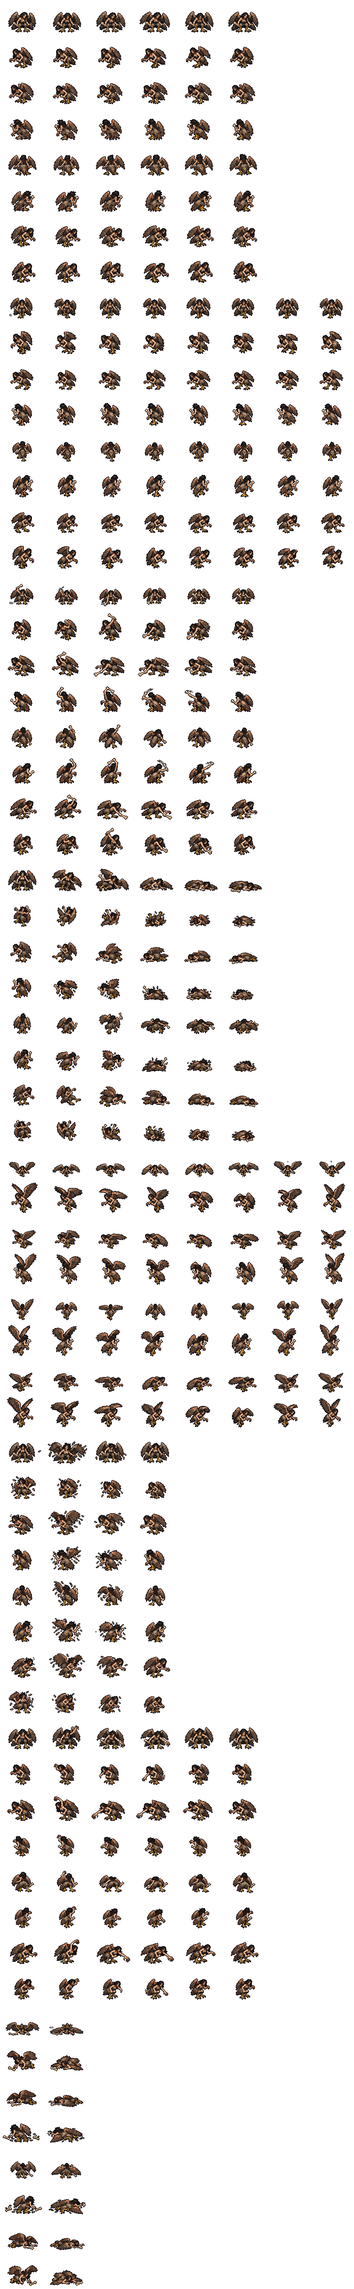
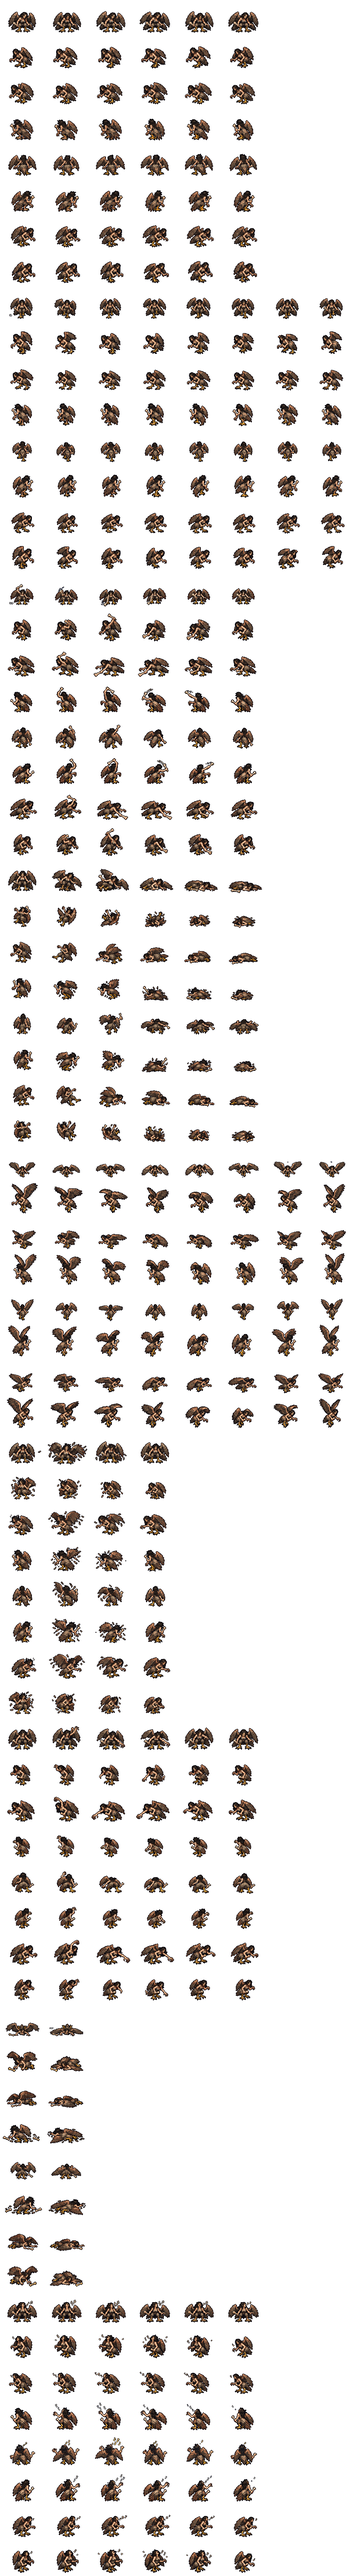
The rust monster's Antennae and the harpy's Song cut onto their sheets: the rows the monster rules play (js/monsterrules.js rowOr)
tools/rustmonster-sheet.py: antennae <- Antennae 6 -- ART-16's SE and NE rows from the boxes kept in UNCUT since 10-22, ART-57's S, E and
N pages (P3), the rust flakes of frames 3 and 4 with their frames; two labels boxed whole. rustmonster_p1's other rows byte for byte.
tools/harpy-sheet.py: song <- Song 6 -- ART-14's SE and NE Song rows, ART-56's S, E and N Song pages (P6), the notes with their frames; N's
first line ends at its numbers (the second line's notes below them), SE's "Song" boxed whole. The Song pages kept out of the Fly pages'
median scale, so the fly stays as f04ec01 cut it: harpy_p1's other rows byte for byte.
tools/pixelate.py ANIM_ORDER: antennae, song, enslave last. js/ui.js plays touch, antennae, song and enslave once and back to idle.
?show=rustmonster and ?show=harpy play every row twice. On Griz's "Yes, cut them" (10-28, to the lanes desk, on the Antennae, Song and
Enslave rows the monster rules seat's 012b741 plays where a sheet has them).

diff --git a/deep16/js/ui.js b/deep16/js/ui.js
@@ -1535,7 +1535,7 @@
           else if (has('hurt')) { anim = 'hurt'; o.once = true; if (pf >= 0 && u.proneLook) t += Math.ceil(pf * 60 / (D.spr.anim(u.sheet, 'hurt').fps || 8)); }
           else if (u.dead) { anim = 'idle'; o.alpha = Math.max(0, 1 - (B.t - u.deadT) / 50); o.tint = R('violet', 4); o.tintAlpha = 0.5; }
           else { anim = 'idle'; o.lie = true; }
-        } else if (anim === 'attack' || anim === 'cast' || anim === 'flinch' || anim === 'clack' || anim === 'burrow' || anim === 'reveal' || anim === 'reel' || /^(claw|bite|tendril|tentacles|beak|greatclub|rock|taunt|denimdamage|gaze|cannonball|socialsharing|socialflame|socialdistancing|honk|hottake|goingviral|spot|spotlight|guard|lobstahhug|grouphug|lifeline|scimitar|shortbow|nimble|hide|morningstar|javelin|ambush|catch|engulf|digest|slam|battleaxe|crush|darkness|backhand|pounce|drain|mirrorstrike|kneel|overfill|ascend|longbow|slash|volley|whirlwind|parry|backstep|pseudopod|bites|spittle|spikedboneclub|whelm|castup|defend|useitem|victory|attack|interact|secondwind|actionsurge|oilfire|breath|tailspike|tail)\d?$/.test(anim)) { o.once = true; if (!has(anim) || t > D.spr.duration(u.sheet, anim) + 6) { anim = 'idle'; o.once = false; } } // (back to idle, and idle loops: the flinch's once held its last frame on anyone struck who then did not act -- the landlord, 09-30g) (breath, tailspike, tail: the winter wolf's Cold Breath, the manticore's volley, the aboleth's tail, 10-22)
+        } else if (anim === 'attack' || anim === 'cast' || anim === 'flinch' || anim === 'clack' || anim === 'burrow' || anim === 'reveal' || anim === 'reel' || /^(claw|bite|tendril|tentacles|beak|greatclub|rock|taunt|denimdamage|gaze|cannonball|socialsharing|socialflame|socialdistancing|honk|hottake|goingviral|spot|spotlight|guard|lobstahhug|grouphug|lifeline|scimitar|shortbow|nimble|hide|morningstar|javelin|ambush|catch|engulf|digest|slam|battleaxe|crush|darkness|backhand|pounce|drain|mirrorstrike|kneel|overfill|ascend|longbow|slash|volley|whirlwind|parry|backstep|pseudopod|bites|spittle|spikedboneclub|whelm|castup|defend|useitem|victory|attack|interact|secondwind|actionsurge|oilfire|breath|tailspike|tail|touch|antennae|song|enslave)\d?$/.test(anim)) { o.once = true; if (!has(anim) || t > D.spr.duration(u.sheet, anim) + 6) { anim = 'idle'; o.once = false; } } // (back to idle, and idle loops: the flinch's once held its last frame on anyone struck who then did not act -- the landlord, 09-30g) (breath, tailspike, tail: the winter wolf's Cold Breath, the manticore's volley, the aboleth's tail, 10-22)
         // hiding (10-07, the goblin's Hide: its sheet's `hide` row, a crouch behind its shield): the row plays at the Hide (battle.js hide sets it, the once-rows above), and while it stays
         // hidden and would stand idle it keeps the row's last frame -- the crouch held; one that walks or strikes shows that, and one found stands up
         if (!down && u.conds.hidden && anim === 'idle' && has('hide')) { anim = 'hide'; o.frame = D.spr.anim(u.sheet, 'hide').frames - 1; o.once = false; }

diff --git a/deep16/data/sprites.js b/deep16/data/sprites.js
@@ -5891,7 +5891,7 @@
 }
 },
 "harpy_p1": {
-"image": "art/harpy_p1.png?v=1a36bfac64",
+"image": "art/harpy_p1.png?v=95ca97eafa",
 "fw": 104,
 "fh": 84,
 "ax": 52,
@@ -5969,6 +5969,15 @@
 "ay": 76,
 "frames": 2,
 "fps": 6
+},
+"song": {
+"y": 5376,
+"fw": 104,
+"fh": 84,
+"ax": 52,
+"ay": 76,
+"frames": 6,
+"fps": 8
 }
 },
 "source": "drawn by the art desk (ART-14 SE and NE with its two Claws corrections, 10-10; ART-56 S, E and N, 10-20), cut by tools/harpy-sheet.py through tools/artdesk.py (10-28)"
@@ -15114,7 +15123,7 @@ true
 "source": "generated by the art desk (Griz's ChatGPT project, 2026-10-14: ART-59, FINAL SHEETS), cut by tools/roadprops-sheet.py"
 },
 "rustmonster_p1": {
-"image": "art/rustmonster_p1.png?v=899381d671",
+"image": "art/rustmonster_p1.png?v=5a2b2dc6f4",
 "fw": 108,
 "fh": 56,
 "ax": 54,
@@ -15174,6 +15183,15 @@ true
 "ay": 50,
 "frames": 2,
 "fps": 6
+},
+"antennae": {
+"y": 2688,
+"fw": 108,
+"fh": 56,
+"ax": 54,
+"ay": 50,
+"frames": 6,
+"fps": 10
 }
 },
 "source": "drawn by the art desk (ART-16 SE and NE, 10-10, SE page 1 the revised \"Rustmonster front-facing animation sheet\"; ART-57 S, E and N, 10-20), cut by tools/rustmonster-sheet.py through tools/artdesk.py (10-22)"

diff --git a/deep16/index.html b/deep16/index.html
@@ -77,7 +77,7 @@
 <script src="js/art.js?v=e1ce4cf012"></script>
 <script src="data/cavern.js?v=647c1a184a"></script>
 <script src="data/maps.js?v=971b4fe9e6"></script>
-<script src="data/sprites.js?v=4fa6b16116"></script>
+<script src="data/sprites.js?v=6b4332d61d"></script>
 <script src="js/sprites.js?v=132505c283"></script>
 <script src="js/save.js?v=1191d6f29a"></script>
 <script src="data/spells.js?v=b819b6e987"></script>
@@ -112,7 +112,7 @@
 <script src="js/keeper.js?v=b14a3c0a11"></script>
 <script src="js/keeperplay.js?v=ee16f94a09"></script>
 <script src="js/keeperlog.js?v=e082ee5691"></script>
-<script src="js/ui.js?v=2c7695605b"></script>
+<script src="js/ui.js?v=182fe6c701"></script>
 <script src="js/view.js?v=2116b81b68"></script>
 <script src="js/ladder.js?v=86b87c0ae1"></script>
 <script src="js/record.js?v=060699a5ba"></script>

diff --git a/tools/pixelate.py b/tools/pixelate.py
@@ -22,7 +22,7 @@ if not os.path.isdir(SRC):                                     # (_src is not in
     SRC = os.path.join(os.path.dirname(os.path.abspath(os.path.join(ROOT, _common))), 'deep16', '_src')
 ART = os.path.join(D16, 'art')
 FPS = {'longsword': 12, 'longsword2': 12, 'longbow': 10, 'martial': 12, 'morningstar': 12, 'morningstar2': 12, 'javelin': 10, 'ambush': 12, 'scimitar': 12, 'shortbow': 10, 'nimble': 12, 'hide': 8, 'gaze': 10, 'taunt': 10, 'denimdamage': 12, 'cannonball': 14, 'spot': 8, 'spotlight': 12, 'guard': 8, 'lobstahhug': 12, 'grouphug': 10, 'lifeline': 10, 'socialsharing': 8, 'socialflame': 10, 'socialdistancing': 10, 'honk': 10, 'hottake': 12, 'goingviral': 10,'claw': 12, 'claw2': 12, 'claw3': 12, 'bite': 10, 'burrow': 8, 'idle': 6, 'walk': 10, 'attack': 12, 'hurt': 10, 'die': 8, 'sit': 2, 'cast': 10, 'fly': 9, 'roost': 2, 'reveal': 6, 'moan': 8, 'flinch': 12, 'tendril': 12, 'tendril2': 12, 'tendril3': 12, 'tendril4': 12, 'reel': 10, 'still': 2, 'tentacles': 12, 'beak': 10, 'slither': 10, 'prone': 8, 'greatclub': 10, 'greatclub2': 10, 'rock': 10, 'climb': 8, 'catch': 10}
-ANIM_ORDER = ['idle', 'walk', 'attack', 'hurt', 'die', 'sit', 'cast', 'fly', 'roost', 'reveal', 'moan', 'flinch', 'rofl', 'braid', 'run', 'clack', 'burrow', 'claw', 'claw2', 'claw3', 'bite', 'tendril', 'tendril2', 'tendril3', 'tendril4', 'reel', 'still', 'tentacles', 'beak', 'slither', 'prone', 'greatclub', 'greatclub2', 'rock', 'climb', 'catch', 'gaze', 'taunt', 'denimdamage', 'cannonball', 'socialsharing', 'socialflame', 'socialdistancing', 'honk', 'hottake', 'goingviral', 'spot', 'spotlight', 'guard', 'lobstahhug', 'grouphug', 'lifeline', 'scimitar', 'shortbow', 'nimble', 'hide', 'morningstar', 'javelin', 'ambush', 'longsword', 'longsword2', 'longbow', 'martial', 'morningstar2', 'breath', 'tailspike', 'tail', 'touch']  # (touch: the lamia's Intoxicating Touch, a row named for the blow, 10-27)  # (tail: the aboleth's Tail, a row named for the blow, 10-22)  # (tailspike: the manticore's Tail Spike, a row named for the attack, 10-22)  # (breath: a sheet's own Cold Breath, played by js/traits.js M.breathe -- the winter wolf's, 10-22; last, so no sheet's rows move)  # (morningstar2: the bugbear chief's second swing of a turn, his re-roll of that row, 10-08; last, so no sheet's rows move)  # (longsword, longsword2, longbow: the hobgoblins' blows, rows named for the attack, the sergeant's second swing on its numbered row; martial: Martial Advantage's drilled lunge, js/battle.js -- their GPT sheets, 10-07)  # (morningstar, javelin: the bugbears' two blows, rows named for the attack; ambush: Surprise Attack's blow in round one, js/battle.js -- their GPT sheets, 10-07)  # (scimitar, shortbow: the goblin's two blows, battle.js plays a row named for the attack; nimble: its Nimble Escape, js/traits.js; hide: crouched behind its shield, nothing plays it till its Hide is built -- its GPT sheets, 10-07)  # (grouphug, lifeline: Goose's Group Hug and Lifeline, his sheet 5, 10-07)  # (spot, spotlight: Beholda's Eye On It and Spotlight; guard, lobstahhug: Denny's Bodyguard and Lobstah Hug -- their second and third sheets, 10-07; the cannonball 14 fps since, so his landing frame meets the leap's)  # (hottake, goingviral: Rascal's Hot Take and Going Viral, his second sheet, 10-07)  # (honk: Goose's, 10-07)  # (greatclub, greatclub2, rock: the stone giant's overhead smash, its flat sweep (a Multiattack's second swing), and the rock thrown from her left hand -- battle.js plays a row named for the attack, 10-04)  # (prone: a sheet's own fall, lying at its last frame -- sprites.js S.proneRow; the xorn's and the roper's, 10-02)  # (slither: a long move's gait, three squares or more -- battle.js moveAlong; the grick's, 10-02)  # (tentacles, beak: the grick's two blows, the beak only after the tentacles hit -- 10-02)  # (tendril..tendril4, reel, still: the roper's lash from each tendril, its Reel, and its False Appearance, a stalagmite -- 10-01e)  # (claw, claw2, claw3, bite: a row for each of a Multiattack's blows, the xorn's first -- battle.js attack, 10-01d)  # (burrow: going under, the bulette's, its last frame the mound it is while under -- 10-01d)  # (clack: the clacker striking its hooks together at its turn's start, 10-01)  # (braid: the ettercap sitting on its stump braiding, till it sees you; run: the giant boar's charge -- both 09-30)  # (rofl: the hyena rolling on the floor with laughter, 09-30: the Hideous Laughter easter egg)  # (flinch: a blow that lands and doesn't drop it, played once: the generated sheets' hit rows, 09-29)  # (fly: the cloaker's flight in, played as drawn -- the easter egg's ending)  # (cast: the spellcasters' own pose, the spell animation pass 09-28h)
+ANIM_ORDER = ['idle', 'walk', 'attack', 'hurt', 'die', 'sit', 'cast', 'fly', 'roost', 'reveal', 'moan', 'flinch', 'rofl', 'braid', 'run', 'clack', 'burrow', 'claw', 'claw2', 'claw3', 'bite', 'tendril', 'tendril2', 'tendril3', 'tendril4', 'reel', 'still', 'tentacles', 'beak', 'slither', 'prone', 'greatclub', 'greatclub2', 'rock', 'climb', 'catch', 'gaze', 'taunt', 'denimdamage', 'cannonball', 'socialsharing', 'socialflame', 'socialdistancing', 'honk', 'hottake', 'goingviral', 'spot', 'spotlight', 'guard', 'lobstahhug', 'grouphug', 'lifeline', 'scimitar', 'shortbow', 'nimble', 'hide', 'morningstar', 'javelin', 'ambush', 'longsword', 'longsword2', 'longbow', 'martial', 'morningstar2', 'breath', 'tailspike', 'tail', 'touch', 'antennae', 'song', 'enslave']  # (antennae, song, enslave: the rust monster's, the harpy's Luring Song, the aboleth's -- js/monsterrules.js rowOr, 10-28)  # (touch: the lamia's Intoxicating Touch, a row named for the blow, 10-27)  # (tail: the aboleth's Tail, a row named for the blow, 10-22)  # (tailspike: the manticore's Tail Spike, a row named for the attack, 10-22)  # (breath: a sheet's own Cold Breath, played by js/traits.js M.breathe -- the winter wolf's, 10-22; last, so no sheet's rows move)  # (morningstar2: the bugbear chief's second swing of a turn, his re-roll of that row, 10-08; last, so no sheet's rows move)  # (longsword, longsword2, longbow: the hobgoblins' blows, rows named for the attack, the sergeant's second swing on its numbered row; martial: Martial Advantage's drilled lunge, js/battle.js -- their GPT sheets, 10-07)  # (morningstar, javelin: the bugbears' two blows, rows named for the attack; ambush: Surprise Attack's blow in round one, js/battle.js -- their GPT sheets, 10-07)  # (scimitar, shortbow: the goblin's two blows, battle.js plays a row named for the attack; nimble: its Nimble Escape, js/traits.js; hide: crouched behind its shield, nothing plays it till its Hide is built -- its GPT sheets, 10-07)  # (grouphug, lifeline: Goose's Group Hug and Lifeline, his sheet 5, 10-07)  # (spot, spotlight: Beholda's Eye On It and Spotlight; guard, lobstahhug: Denny's Bodyguard and Lobstah Hug -- their second and third sheets, 10-07; the cannonball 14 fps since, so his landing frame meets the leap's)  # (hottake, goingviral: Rascal's Hot Take and Going Viral, his second sheet, 10-07)  # (honk: Goose's, 10-07)  # (greatclub, greatclub2, rock: the stone giant's overhead smash, its flat sweep (a Multiattack's second swing), and the rock thrown from her left hand -- battle.js plays a row named for the attack, 10-04)  # (prone: a sheet's own fall, lying at its last frame -- sprites.js S.proneRow; the xorn's and the roper's, 10-02)  # (slither: a long move's gait, three squares or more -- battle.js moveAlong; the grick's, 10-02)  # (tentacles, beak: the grick's two blows, the beak only after the tentacles hit -- 10-02)  # (tendril..tendril4, reel, still: the roper's lash from each tendril, its Reel, and its False Appearance, a stalagmite -- 10-01e)  # (claw, claw2, claw3, bite: a row for each of a Multiattack's blows, the xorn's first -- battle.js attack, 10-01d)  # (burrow: going under, the bulette's, its last frame the mound it is while under -- 10-01d)  # (clack: the clacker striking its hooks together at its turn's start, 10-01)  # (braid: the ettercap sitting on its stump braiding, till it sees you; run: the giant boar's charge -- both 09-30)  # (rofl: the hyena rolling on the floor with laughter, 09-30: the Hideous Laughter easter egg)  # (flinch: a blow that lands and doesn't drop it, played once: the generated sheets' hit rows, 09-29)  # (fly: the cloaker's flight in, played as drawn -- the easter egg's ending)  # (cast: the spellcasters' own pose, the spell animation pass 09-28h)
 # LPC has four directions; the eight facings take the nearest, the front and back diagonals leaning to down and up
 LPC_ROW = {'up': 0, 'left': 1, 'down': 2, 'right': 3}
 LPC_FOR_FACING = ['down', 'down', 'left', 'up', 'up', 'up', 'right', 'down']

diff --git a/tools/harpy-sheet.py b/tools/harpy-sheet.py
@@ -13,8 +13,9 @@ Sources (the art desk's, in the main checkout's deep16/_src/harpy/ -- a worktree
   _src/art-desk/received-2026-10-27-ART-56-harpy-LOOSE/MAP.md).
 What each became: idle, walk, attack <- Club (its club plays `attack`), claw <- Claws (the attack names its `row: 'claw'`), flinch, hurt <-
 Fall (played once), prone <- Prone played backwards, fly <- Fly (10-28, his "1 yes": a sheet's fly row plays while its unit is aloft,
-js/ui.js -- ART-14's SE and NE Fly rows, ART-56's S, E and N Fly pages at their view's median scale). Song is NOT cut: the Luring Song (a
-charm that walks a hero to her) is not on the grid. Facings: the five views as drawn, SW, W and
+js/ui.js -- ART-14's SE and NE Fly rows, ART-56's S, E and N Fly pages at their view's median scale). song <- Song (10-28, his "Yes, cut them":
+js/monsterrules.js plays its own song row for the Luring Song -- ART-14's SE and NE Song rows, ART-56's S, E and N Song pages, the notes
+with their frames). Facings: the five views as drawn, SW, W and
 NW the mirrors of SE, E and NE.
 The boxes by the seat's probe (bodies clustered into each page's rows, each frame's x its body's middle; the SE claw row by its printed
 numbers -- its frames 3 and 4 touch; NE's Club row by hand to end at its numbers, the Song row's notes below them read as numbers; by hand too, SE's Idle band starts under the
@@ -47,7 +48,7 @@ def R(*rows):
 SPEC = {
   'H1P1': (dict(file='ART-14_HEAD-1_PAGE-1.png', W=1536, text=[(15, 845, 65, 882), (17, 588, 39, 615), (19, 361, 55, 389), (34, 593, 55, 615), (51, 361, 67, 389), (51, 587, 66, 615), (61, 367, 82, 389), (61, 587, 82, 615)]),
            R(('ref', (0, 0, 1536, 255), (228, 255), 5, [163, 527, 800, 1076, 1360]), ('idle', (0, 277, 1536, 478), (456, 478), 6, [213, 448, 677, 895, 1114, 1341]), ('walk', (0, 479, 1536, 718), (696, 718), 8, [184, 361, 542, 724, 912, 1091, 1260, 1440]), ('fly', (0, 719, 1536, 997), (976, 997), 8, [129, 317, 507, 722, 903, 1077, 1257, 1441]))),
-  'H1P2': (dict(file='ART-14_HEAD-1_PAGE-2.png', W=1536, text=[(13, 464, 34, 491), (13, 784, 34, 811), (14, 149, 46, 177), (29, 463, 46, 491), (29, 789, 50, 811), (40, 154, 61, 177), (40, 469, 61, 491), (45, 789, 66, 811), (56, 154, 80, 177), (56, 463, 77, 491), (75, 154, 96, 177)]),
+  'H1P2': (dict(file='ART-14_HEAD-1_PAGE-2.png', W=1536, text=[(10, 780, 85, 818), (13, 464, 34, 491), (13, 784, 34, 811), (14, 149, 46, 177), (29, 463, 46, 491), (29, 789, 50, 811), (40, 154, 61, 177), (40, 469, 61, 491), (45, 789, 66, 811), (56, 154, 80, 177), (56, 463, 77, 491), (75, 154, 96, 177)]),
            R(('clawold', (0, 0, 1536, 303), (280, 303), 6, [187, 416, 653, 890, 1136, 1387]), ('attack', (0, 304, 1536, 620), (597, 620), 6, [183, 413, 647, 876, 1125, 1377]), ('song', (0, 621, 1536, 945), (921, 945), 6, [175, 411, 644, 880, 1130, 1379]))),
   'H1P3': (dict(file='ART-14_HEAD-1_PAGE-3.png', W=1536, text=[(21, 489, 42, 518), (22, 163, 43, 192), (22, 821, 43, 850), (36, 494, 57, 518), (38, 163, 57, 192), (39, 826, 60, 850), (52, 168, 70, 192), (52, 489, 70, 518), (54, 161, 67, 174), (55, 826, 76, 850), (65, 168, 86, 192), (65, 489, 83, 518), (81, 163, 120, 192), (72, 822, 110, 850)]),
            R(('flinch', (0, 0, 1536, 331), (307, 331), 4, [288, 598, 861, 1141]), ('hurt', (0, 332, 1536, 654), (629, 654), 6, [193, 417, 640, 874, 1117, 1379]), ('prone', (0, 655, 1536, 967), (942, 967), 2, [281, 652]))),
@@ -110,10 +111,17 @@ SPEC = {
            R(('fly', (0, 0, 2172, 353), (327, 353), 4, [291, 772, 1316, 1854]), ('fly_b', (0, 354, 2172, 700), (674, 700), 4, [277, 803, 1355, 1877]))),
   'H5P3': (dict(file='ART-56_HEAD-5_PAGE-3.png', W=1536, text=[(15, 252, 85, 296), (0, 680, 110, 760)]),     # (a Fly label on each line)
            R(('fly', (0, 0, 1536, 471), (444, 471), 4, [225, 582, 973, 1344]), ('fly_b', (0, 472, 1536, 922), (897, 922), 4, [237, 583, 957, 1337]))),
+  # the S, E and N Song pages (10-28): two lines of three, the notes over each figure with it (N's first line ends at its numbers: the second line's notes below them)
+  'H3P6': (dict(file='ART-56_HEAD-3_PAGE-6.png', W=2161, text=[(36, 318, 134, 364)]),
+           R(('song', (0, 0, 2161, 352), (320, 352), 3, [636, 1074, 1516]), ('song_b', (0, 353, 2161, 693), (662, 693), 3, [634, 1075, 1513]))),
+  'H4P6': (dict(file='ART-56_HEAD-4_PAGE-6.png', W=1536, text=[(28, 328, 132, 373)]),
+           R(('song', (0, 0, 1536, 448), (417, 448), 3, [326, 775, 1246]), ('song_b', (0, 449, 1536, 935), (904, 935), 3, [282, 775, 1261]))),
+  'H5P6': (dict(file='ART-56_HEAD-5_PAGE-6.png', W=1536, text=[(15, 220, 112, 275), (15, 718, 112, 775)]),
+           R(('song', (0, 0, 1536, 462), (430, 462), 3, [278, 733, 1162]), ('song_b', (0, 463, 1536, 925), (896, 925), 3, [285, 751, 1203]))),
 }
 # the rows drawn and not cut: the identity drawings over SE's Idle, Fly, Song, and ART-14's first Claws rows (superseded by the two
 # correction sheets) -- their boxes kept, so a later rule that plays Fly or Song has them
-UNCUT = {('H1P1', 'ref'), ('H1P2', 'clawold'), ('H1P2', 'song'), ('H2P2', 'clawold'), ('H2P2', 'song')}
+UNCUT = {('H1P1', 'ref'), ('H1P2', 'clawold'), ('H2P2', 'clawold'), }
 PAGES = {}
 for _L, (_p, (_rows, _xs)) in SPEC.items():
     _rows = [r for r in _rows if (_L, r[0]) not in UNCUT]
@@ -122,12 +130,12 @@ FIX = {}
 CUTS = {'H1C': {'claw': [((810, 282), (810, 312))]}}     # (SE Claws 3's reach meets Claws 4 in a bridge 22 px tall at x 810: cut there)
 # each view's pages, its Idle's first
 VIEWS = {'SE': ('H1P1', 'H1C', 'H1P2', 'H1P3'), 'NE': ('H2P1', 'H2C', 'H2P2', 'H2P3')}
-VIEWS.update({v: tuple('H%dP%d' % (h, p) for p in (1, 2, 4, 5, 7, 8, 9, 3)) for v, h in (('S', 3), ('E', 4), ('N', 5))})
+VIEWS.update({v: tuple('H%dP%d' % (h, p) for p in (1, 2, 4, 5, 7, 8, 9, 3, 6)) for v, h in (('S', 3), ('E', 4), ('N', 5))})
 FALL = {v: ('H%dP8' % h, 'H%dP9' % h) for v, h in (('S', 3), ('E', 4), ('N', 5))}     # (Fall page, Prone page); SE's and NE's share a page
-JOINS = {r + '_b': r for r in ('idle', 'walk', 'attack', 'claw', 'flinch', 'hurt', 'prone', 'fly')}
+JOINS = {r + '_b': r for r in ('idle', 'walk', 'attack', 'claw', 'flinch', 'hurt', 'prone', 'fly', 'song')}
 JOINS.update({'fly_c': 'fly', 'fly_d': 'fly'})   # (S's Fly in four lines of two)
-ROWS = ['idle', 'walk', 'attack', 'hurt', 'flinch', 'claw', 'prone', 'fly']
-FPS = {'idle': 6, 'walk': 10, 'attack': 10, 'hurt': 8, 'flinch': 10, 'claw': 10, 'prone': 6, 'fly': 10}
+ROWS = ['idle', 'walk', 'attack', 'hurt', 'flinch', 'claw', 'prone', 'fly', 'song']
+FPS = {'idle': 6, 'walk': 10, 'attack': 10, 'hurt': 8, 'flinch': 10, 'claw': 10, 'prone': 6, 'fly': 10, 'song': 8}
 
 
 def targets():
@@ -149,7 +157,7 @@ _scales0 = AD.scales
 def _scales(cuts, views, *a, **k):
     K = _scales0(cuts, views, *a, **k)
     for v, ls in views.items():
-        rest = sorted(K[L] for L in ls if L not in FLY_PAGES)
+        rest = sorted(K[L] for L in ls if L not in FLY_PAGES and L not in ('H3P6', 'H4P6', 'H5P6'))   # (the Song pages, cut after the Fly, 10-28: kept out, so the Fly's scale stays as it landed)
         for L in ls:
             if L in FLY_PAGES:
                 K[L] = float(np.median(rest))

diff --git a/tools/rustmonster-sheet.py b/tools/rustmonster-sheet.py
@@ -76,22 +76,29 @@ SPEC = {
            R(('flinch', (0, 0, 1983, 602), (567, 599), 4, [383, 810, 1286, 1746]))),
   'H5P7': (dict(file='ART-57_HEAD-5_PAGE-7.png', W=2172, text=[(20, 350, 110, 395)]), R(('hurt', (0, 0, 2172, 551), (523, 548), 6, [253, 572, 901, 1236, 1595, 1983]))),
   'H5P8': (dict(file='ART-57_HEAD-5_PAGE-8.png', W=1774, text=[(38, 404, 256, 464)]), R(('prone', (0, 0, 1774, 730), (688, 727), 2, [616, 1190]))),
+  # the Antennae pages, one band of six (10-28, his "Yes, cut them": js/monsterrules.js plays its own `antennae` row)
+  'H3P3': (dict(file='ART-57_HEAD-3_PAGE-3.png', W=2172, text=[(15, 500, 212, 548)]), R(('antennae', (0, 0, 2172, 596), (564, 596), 6, [355, 673, 992, 1310, 1641, 1970]))),
+  'H4P3': (dict(file='ART-57_HEAD-4_PAGE-3.png', W=2172, text=[(15, 350, 180, 392)]), R(('antennae', (0, 0, 2172, 477), (449, 477), 6, [325, 653, 981, 1306, 1644, 1972]))),
+  'H5P3': (dict(file='ART-57_HEAD-5_PAGE-3.png', W=2172, text=[(22, 369, 231, 410)]), R(('antennae', (0, 0, 2172, 554), (523, 554), 6, [386, 708, 1027, 1352, 1679, 1996]))),
 }
 PAGES = {L: dict(p, rows=rows, xs=xs) for L, (p, (rows, xs)) in SPEC.items()}
-# drawn and not cut (no rule plays them): Antennae (ART-16 each P1's third row; ART-57 each P3) and Gobble (ART-16 each P2's second; each P5)
+# drawn and not cut (no rule plays them): Gobble (ART-16 each P2's second; each P5); the Antennae (ART-16 each P1's third row; ART-57 each P3) cut since 10-28
 UNCUT = {'H1P1 antennae': ((0, 667, 1774, 854), (832, 851), [275, 547, 819, 1095, 1368, 1619]), 'H2P1 antennae': ((0, 540, 1774, 822), (800, 819), [238, 508, 775, 1045, 1333, 1588]),
          'H1P2 gobble': ((0, 180, 1774, 352), (331, 349), None), 'H2P2 gobble': ((0, 199, 1774, 376), (355, 373), [223, 489, 753, 1023, 1282, 1568]),
-         'ART-57 P3 antennae, P5 gobble': 'one band a page, as the others'}
+         'ART-57 P5 gobble': 'one band a page, as the others'}
+for _L in ('H1P1', 'H2P1'):                     # (ART-16's Antennae rows, kept in UNCUT since 10-22: cut 10-28)
+    _b, _s, _x = UNCUT[_L + ' antennae']
+    PAGES[_L] = dict(PAGES[_L], rows=PAGES[_L]['rows'] + [('antennae', _b, _s, 6)], xs=dict(PAGES[_L]['xs'], antennae=_x))
 # the reaction marks the art desk left to the cutter ("removable intentionally or grouped as effects"): out, as the manticore's -- SE's yellow
 # ticks on Flinch 2 and Prone 1, E's and N's pale marks round Flinch 1-3 -- boxed as lettering in each page's `text` above
 FIX, CUTS = {}, {}
 VIEWS = {'SE': ('H1P1', 'H1P2'), 'NE': ('H2P1', 'H2P2'),
-         'S': tuple('H3P%d' % i for i in (1, 2, 4, 6, 7, 8)), 'E': tuple('H4P%d' % i for i in (1, 2, 4, 6, 7, 8)), 'N': tuple('H5P%d' % i for i in (1, 2, 4, 6, 7, 8))}
+         'S': tuple('H3P%d' % i for i in (1, 2, 4, 6, 7, 8, 3)), 'E': tuple('H4P%d' % i for i in (1, 2, 4, 6, 7, 8, 3)), 'N': tuple('H5P%d' % i for i in (1, 2, 4, 6, 7, 8, 3))}
 # each ART-57 Prone page by its Prone 2, upright (the art desk: "Prone1 is belly-up and Prone2 upright"): by Prone 1 against a Fall 6 -- ART-16's
 # ratio, 1.42, its legs in the air -- S's stood a quarter over its idle
 STAND_OF = {'H3P8': ('prone', 1), 'H4P8': ('prone', 1), 'H5P8': ('prone', 1)}
-ROWS = ['idle', 'walk', 'attack', 'hurt', 'flinch', 'prone']
-FPS = {'idle': 6, 'walk': 10, 'attack': 10, 'hurt': 8, 'flinch': 10, 'prone': 6}
+ROWS = ['idle', 'walk', 'attack', 'hurt', 'flinch', 'prone', 'antennae']
+FPS = {'idle': 6, 'walk': 10, 'attack': 10, 'hurt': 8, 'flinch': 10, 'prone': 6, 'antennae': 10}
 
 
 def fit(img, k):
